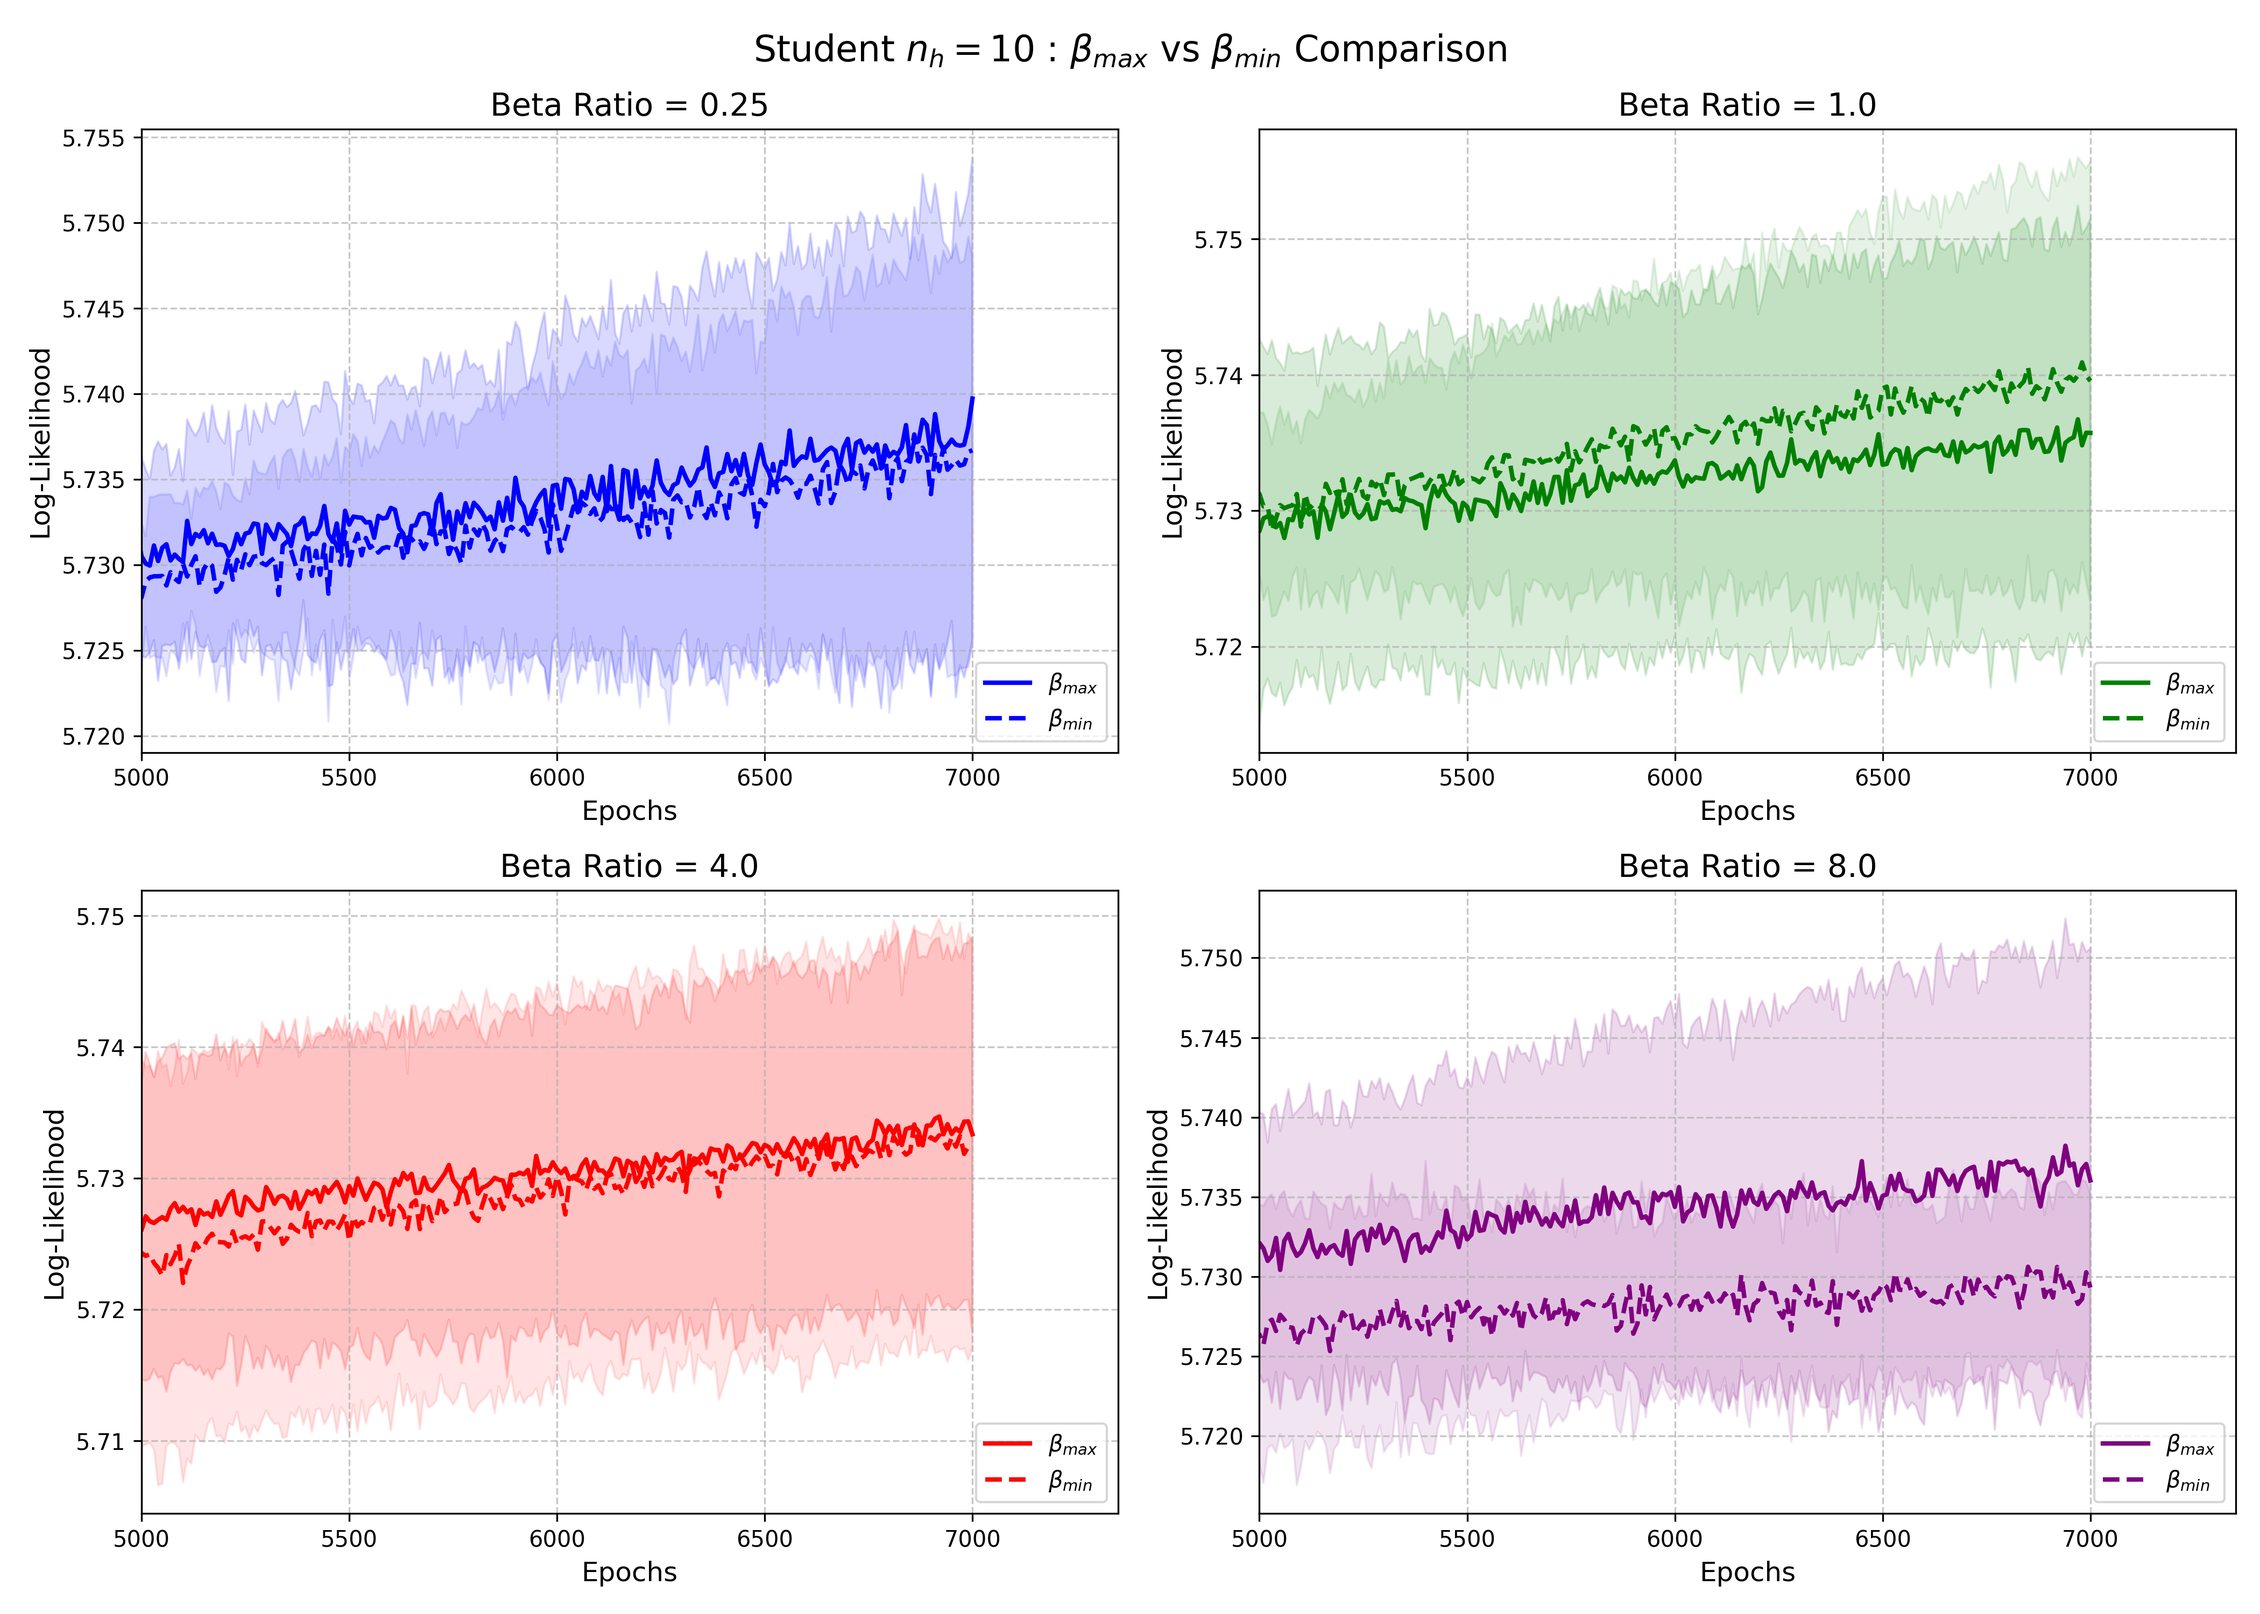
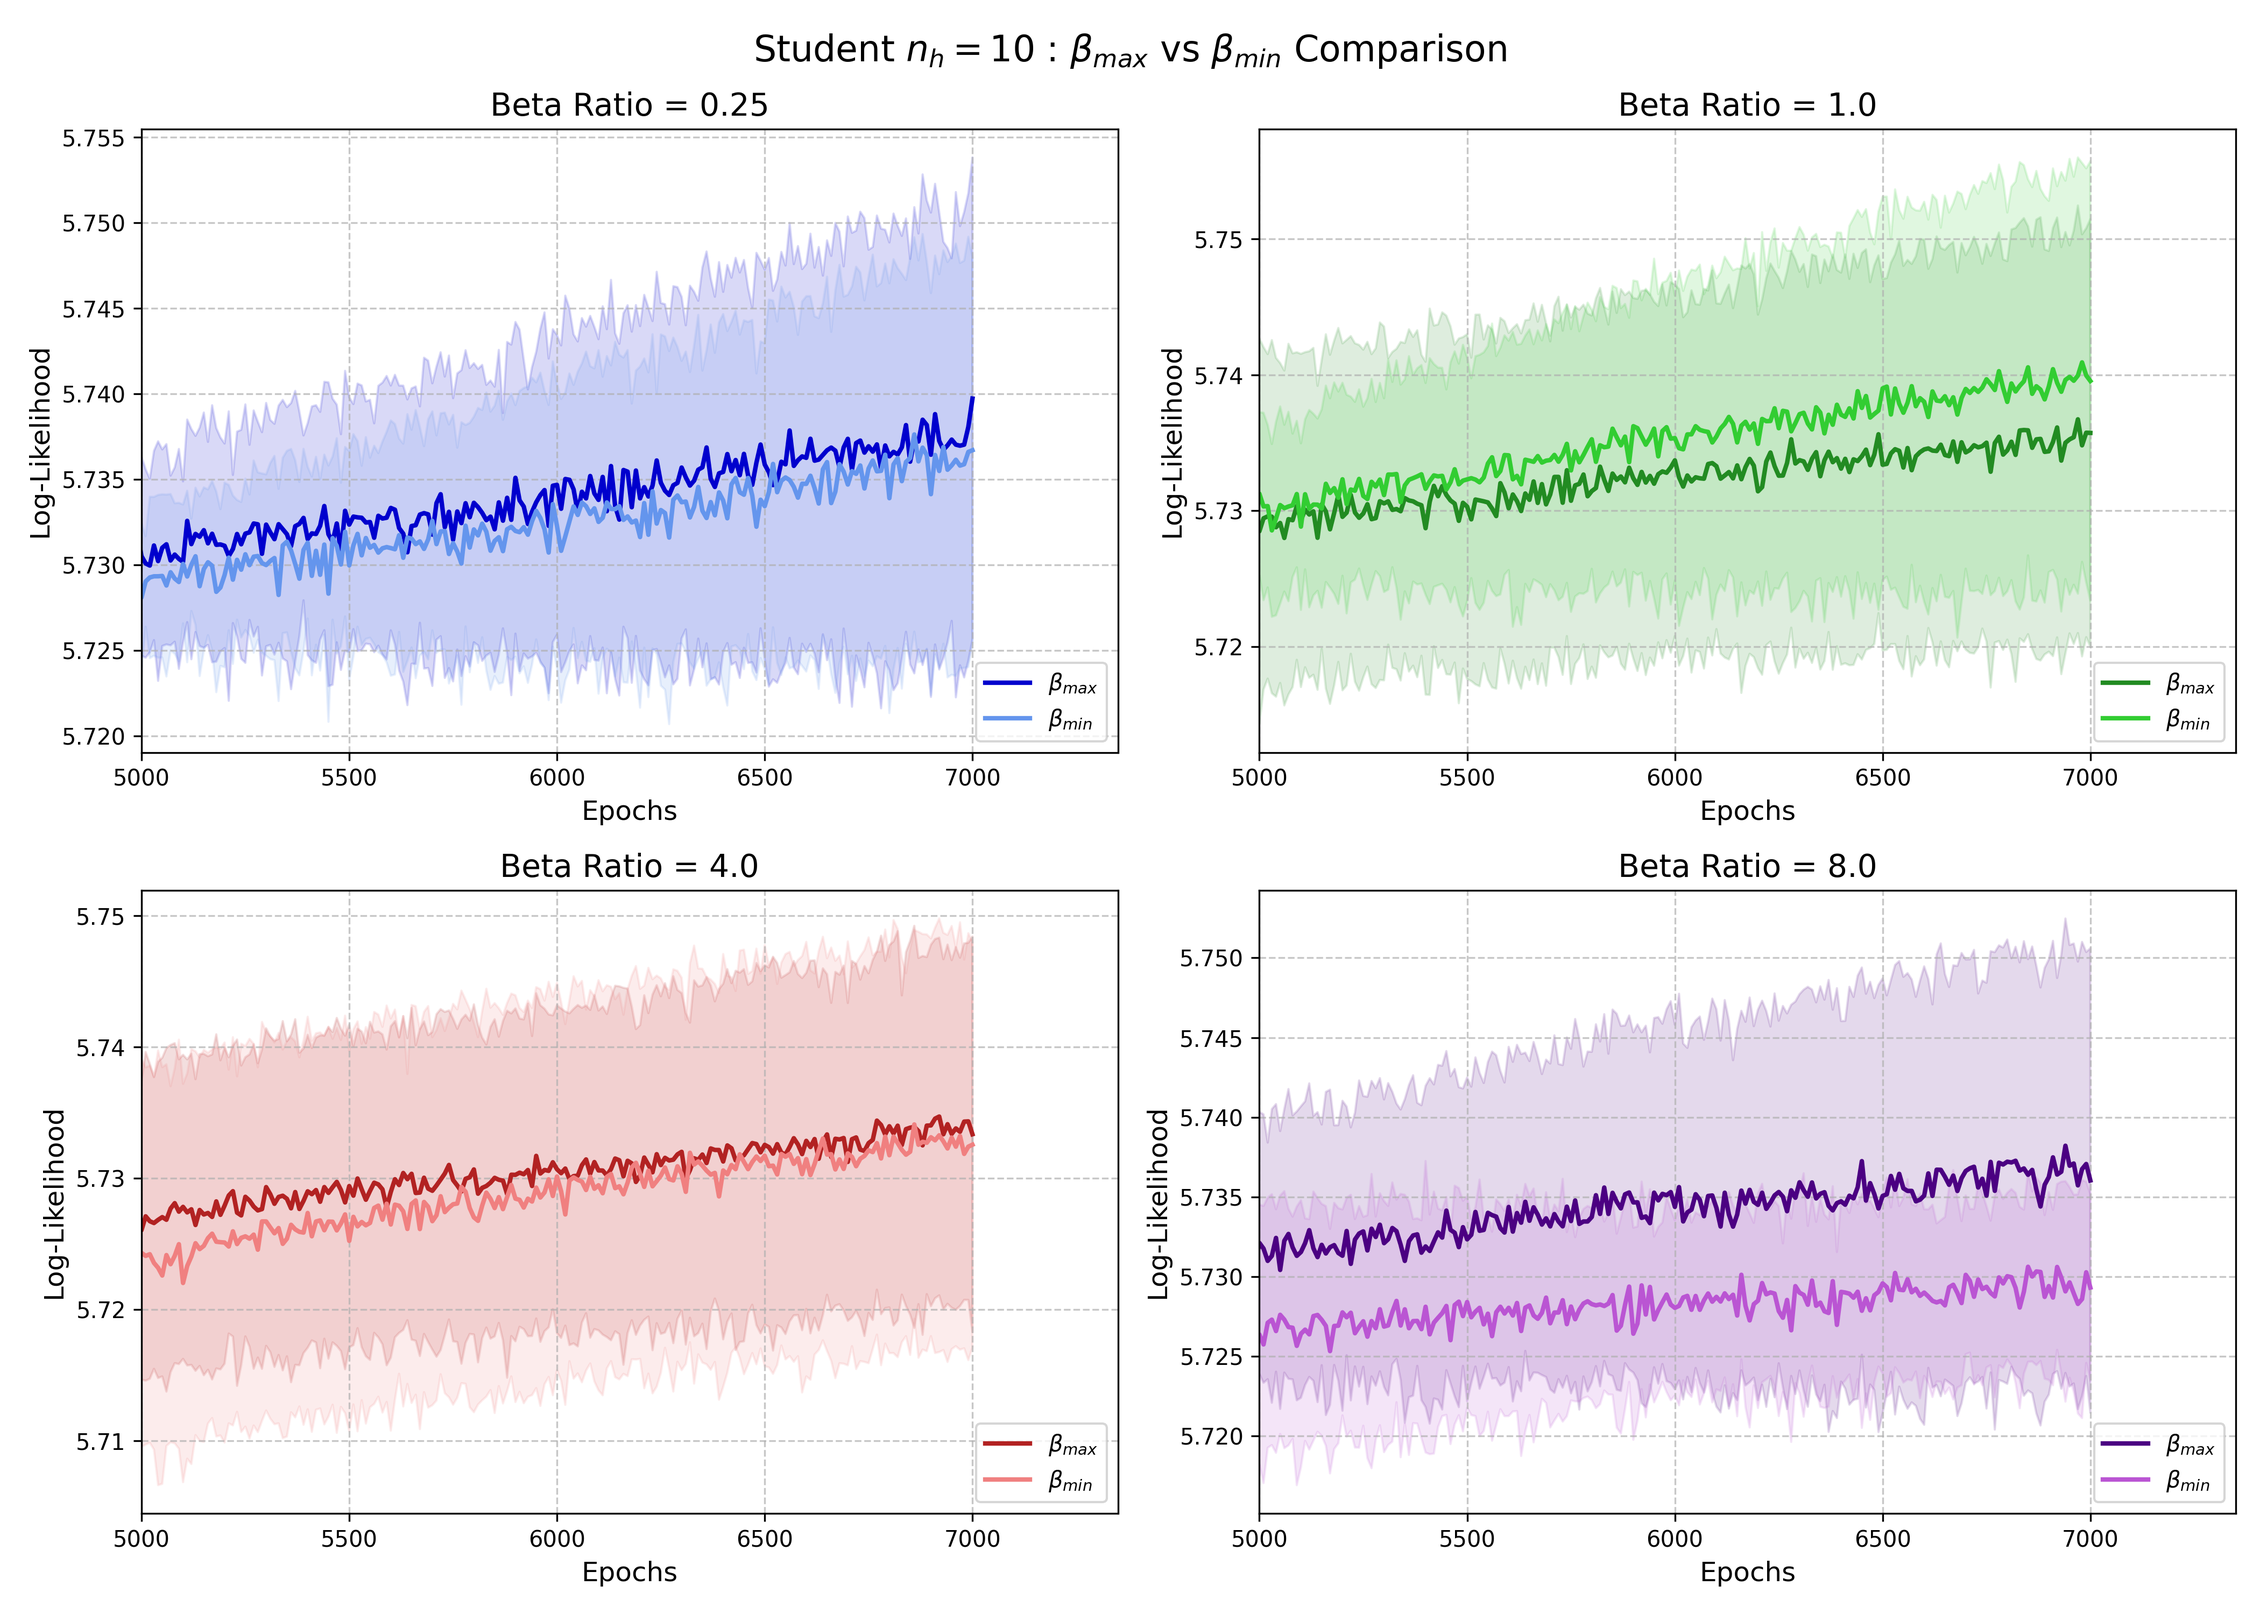
2026/5/19

diff --git a/training_GBRBM/results_visualization_c=-5/plot_ll_c=-5.py b/training_GBRBM/results_visualization_c=-5/plot_ll_c=-5.py
@@ -12,22 +12,22 @@ B_TYPES = ["max", "min"]   # 比較するβのタイプ
 B_RATIOS = [0.25, 1.0, 4.0, 8.0] # 比較するリレーション倍率
 
 # 2. ★表示範囲の指定設定 (3パターン対応)
-# MODE: 'all' (全範囲), 'to_end' (0〜指定地点まで), 'from_start' (指定地点〜最後まで)
 X_RANGE_MODE = 'from_start' 
-X_START = 5000         # 'from_start' モードの開始エポック数
-X_END = 1000          # 'to_end' モードの終了エポック数
-Y_MARGIN = 0.05       # ★ y軸の自動調整時の上下の余白（5%）
+X_START = 5000
+X_END = 1000
+Y_MARGIN = 0.05
 
 # 3. パス設定 (スクリプトの配置場所から見た相対パス)
 DATA_DIR = "../results"
 SAVE_DIR = "plots"
 
-# 4. デザイン・配色設定
+# 4. ★デザイン・配色設定 (実線のまま濃淡で区別)
+# max は濃い色(dark)、min は薄い/明るい色(light)に設定
 COLORS = {
-    0.25: 'blue',
-    1.0: 'green',
-    4.0: 'red',
-    8.0: 'purple'
+    0.25: {'max': 'mediumblue',  'min': 'cornflowerblue'}, # 青系
+    1.0:  {'max': 'forestgreen', 'min': 'limegreen'},      # 緑系
+    4.0:  {'max': 'firebrick',   'min': 'lightcoral'},     # 赤系
+    8.0:  {'max': 'indigo',      'min': 'mediumorchid'}    # 紫系
 }
 
 # 5. サイズ変更しやすいフォント設定
@@ -54,7 +54,6 @@ def get_x_axis_from_data_len(n_points):
 # 表示範囲・メモリ自動調整のユーティリティ関数
 # ==========================================
 def apply_x_limits(ax):
-    """設定されたモードに基づいてグラフのX軸範囲を制限します"""
     if X_RANGE_MODE == 'to_end':
         ax.set_xlim(0, X_END)
     elif X_RANGE_MODE == 'from_start':
@@ -63,7 +62,6 @@ def apply_x_limits(ax):
         pass 
 
 def get_y_min_max_in_visible_range(x, mean, std=None):
-    """見えているX軸範囲内のY値の最小値・最大値を計算します"""
     if X_RANGE_MODE == 'to_end':
         mask = x <= X_END
     elif X_RANGE_MODE == 'from_start':
@@ -82,11 +80,10 @@ def get_y_min_max_in_visible_range(x, mean, std=None):
         return np.min(valid_mean), np.max(valid_mean)
 
 def apply_auto_y_limits(ax, y_min, y_max):
-    """計算された最小・最大値から余白を含めたY軸範囲を適用します"""
     if y_min != np.inf and y_max != -np.inf:
         y_range = y_max - y_min
         if y_range == 0:
-            y_range = 1.0 # 差がない場合の安全対策
+            y_range = 1.0
         ax.set_ylim(y_min - y_range * Y_MARGIN, y_max + y_range * Y_MARGIN)
 
 # ==========================================
@@ -132,28 +129,28 @@ def plot_max_vs_min_per_ratio(data_dict):
 
         ax_y_min, ax_y_max = np.inf, -np.inf
 
-        # maxのプロット
+        # maxのプロット (実線・濃い色)
         if ("max", b_ratio) in data_dict:
             x, mean, std = data_dict[("max", b_ratio)]
-            ax.plot(x, mean, label=r'$\beta_{max}$', color=COLORS[b_ratio], linestyle='-', linewidth=2)
-            ax.fill_between(x, mean - std, mean + std, color=COLORS[b_ratio], alpha=0.15)
+            c_max = COLORS[b_ratio]['max']
+            ax.plot(x, mean, label=r'$\beta_{max}$', color=c_max, linestyle='-', linewidth=2)
+            ax.fill_between(x, mean - std, mean + std, color=c_max, alpha=0.15)
             
-            # 範囲内のY値を取得して更新
             y_min, y_max = get_y_min_max_in_visible_range(x, mean, std)
             ax_y_min, ax_y_max = min(ax_y_min, y_min), max(ax_y_max, y_max)
 
-        # minのプロット
+        # minのプロット (実線・薄い色)
         if ("min", b_ratio) in data_dict:
             x, mean, std = data_dict[("min", b_ratio)]
-            ax.plot(x, mean, label=r'$\beta_{min}$', color=COLORS[b_ratio], linestyle='--', linewidth=2)
-            ax.fill_between(x, mean - std, mean + std, color=COLORS[b_ratio], alpha=0.1)
+            c_min = COLORS[b_ratio]['min']
+            ax.plot(x, mean, label=r'$\beta_{min}$', color=c_min, linestyle='-', linewidth=2)
+            ax.fill_between(x, mean - std, mean + std, color=c_min, alpha=0.15)
             
-            # 範囲内のY値を取得して更新
             y_min, y_max = get_y_min_max_in_visible_range(x, mean, std)
             ax_y_min, ax_y_max = min(ax_y_min, y_min), max(ax_y_max, y_max)
 
         apply_x_limits(ax)
-        apply_auto_y_limits(ax, ax_y_min, ax_y_max) # ★ここでy軸のメモリを最適化
+        apply_auto_y_limits(ax, ax_y_min, ax_y_max)
         ax.legend(fontsize=FS['legend'], loc='lower right')
 
     plt.tight_layout()
@@ -183,15 +180,15 @@ def plot_ratios_per_type(data_dict):
         for b_ratio in B_RATIOS:
             if (b_type, b_ratio) in data_dict:
                 x, mean, std = data_dict[(b_type, b_ratio)]
-                ax.plot(x, mean, label=f'Ratio: {b_ratio}', color=COLORS[b_ratio], linewidth=2)
-                ax.fill_between(x, mean - std, mean + std, color=COLORS[b_ratio], alpha=0.15)
+                c_val = COLORS[b_ratio][b_type] # maxなら濃い色、minなら薄い色を使用
+                ax.plot(x, mean, label=f'Ratio: {b_ratio}', color=c_val, linewidth=2)
+                ax.fill_between(x, mean - std, mean + std, color=c_val, alpha=0.15)
                 
-                # 範囲内のY値を取得して更新
                 y_min, y_max = get_y_min_max_in_visible_range(x, mean, std)
                 ax_y_min, ax_y_max = min(ax_y_min, y_min), max(ax_y_max, y_max)
 
         apply_x_limits(ax)
-        apply_auto_y_limits(ax, ax_y_min, ax_y_max) # ★ここでy軸のメモリを最適化
+        apply_auto_y_limits(ax, ax_y_min, ax_y_max)
         ax.legend(fontsize=FS['legend'], loc='lower right')
 
     plt.tight_layout()
@@ -218,19 +215,21 @@ def plot_all_8_combined(data_dict):
             if (b_type, b_ratio) in data_dict:
                 x, mean, _ = data_dict[(b_type, b_ratio)]
                 
-                linestyle = '-' if b_type == "max" else '--'
+                # すべて実線にし、色（濃淡）で区別する
+                c_val = COLORS[b_ratio][b_type]
                 type_str = r'$\beta_{max}$' if b_type == "max" else r'$\beta_{min}$'
                 label = f'{type_str}, Ratio: {b_ratio}'
                 
-                plt.plot(x, mean, label=label, color=COLORS[b_ratio], linestyle=linestyle, linewidth=2)
+                plt.plot(x, mean, label=label, color=c_val, linestyle='-', linewidth=2)
                 
-                # 8通り比較は標準偏差（影）を描画しないため std=None として計算
                 y_min, y_max = get_y_min_max_in_visible_range(x, mean, std=None)
                 ax_y_min, ax_y_max = min(ax_y_min, y_min), max(ax_y_max, y_max)
 
     apply_x_limits(ax)
-    apply_auto_y_limits(ax, ax_y_min, ax_y_max) # ★ここでy軸のメモリを最適化
-    plt.legend(fontsize=FS['legend'], loc='lower right')
+    apply_auto_y_limits(ax, ax_y_min, ax_y_max)
+    
+    # 8本あるので、凡例を外側に出すか2列にして見やすくする
+    plt.legend(fontsize=FS['legend'], loc='center left', bbox_to_anchor=(1, 0.5), ncol=1)
     
     plt.tight_layout()
     plt.savefig(os.path.join(SAVE_DIR, "3_all_8_combined.png"), dpi=300)
